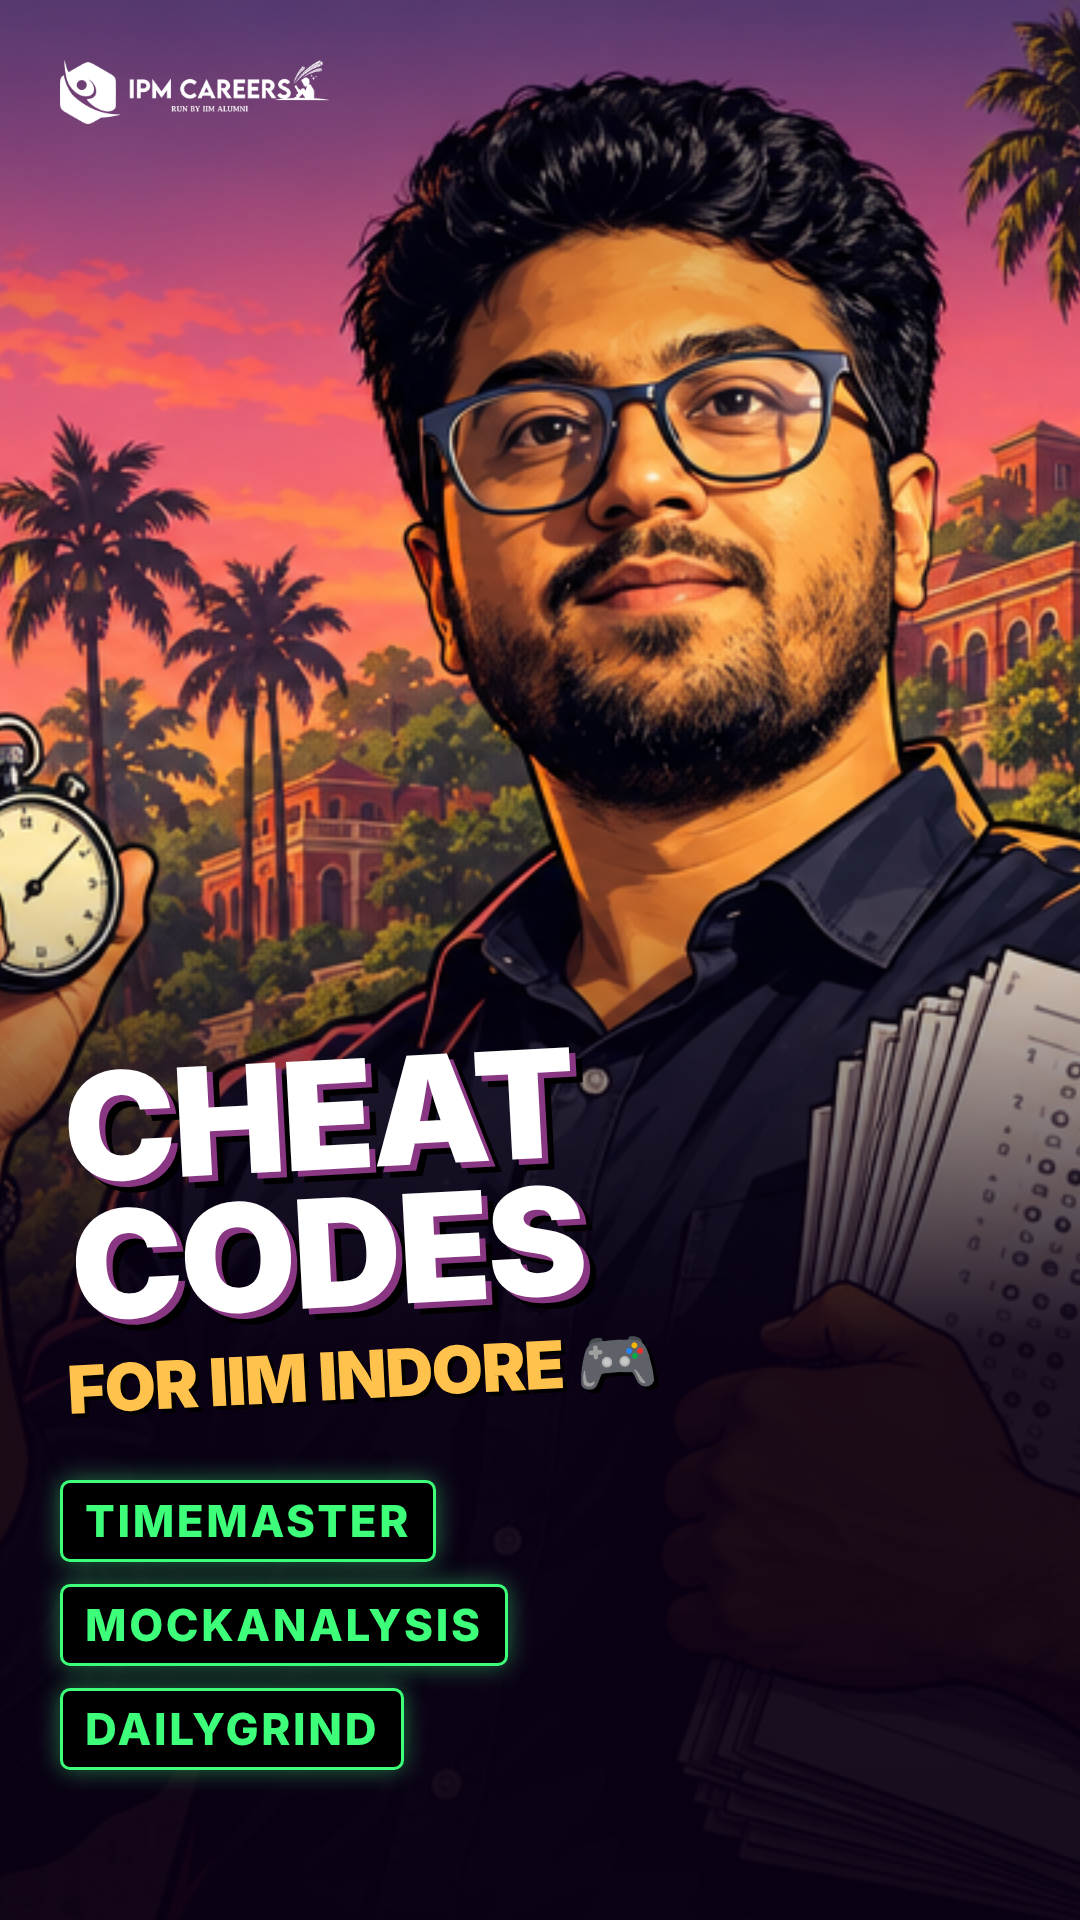
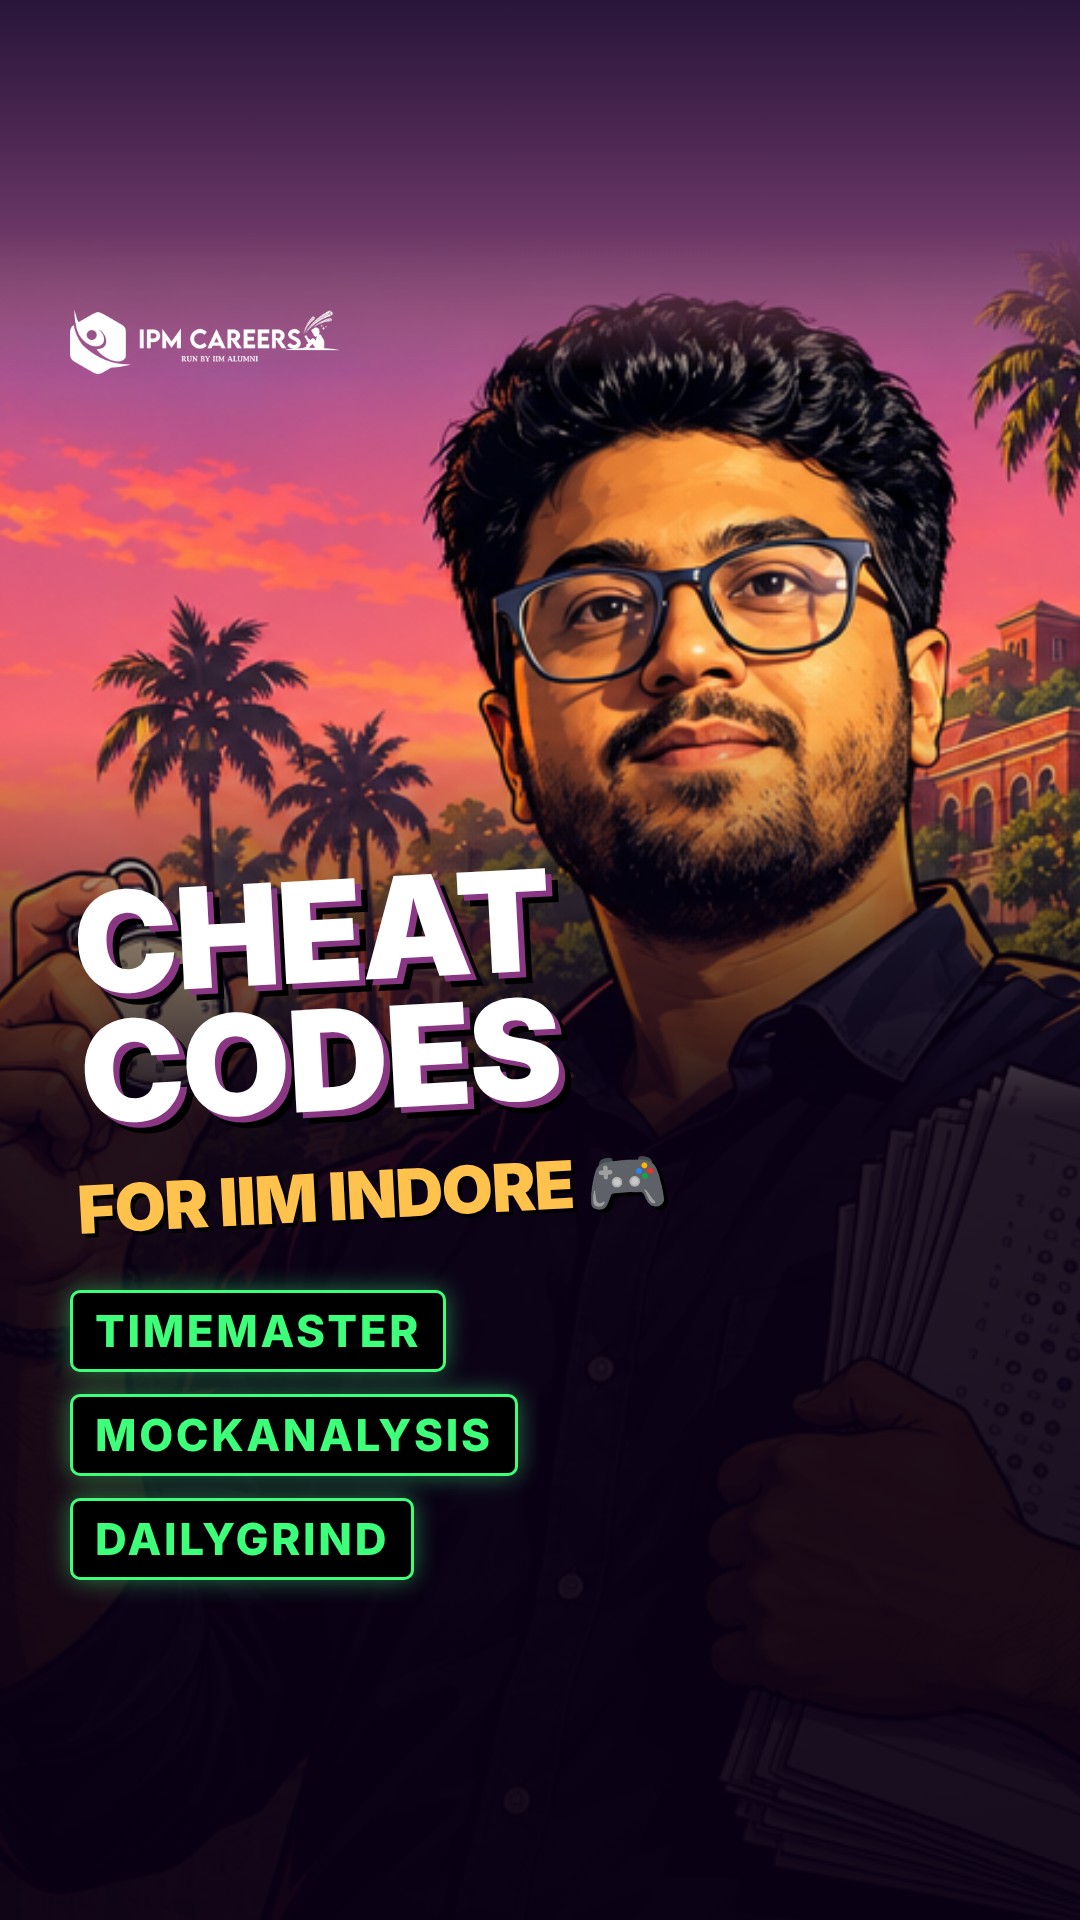
Cheat-codes vertical thumbnail: everything inside the middle 4:5 area so Shorts crops don't cut it
Claude-Session: https://claude.ai/code/session_017bG5V3fXiwQrWWNcUHjzq8

diff --git a/templates/cards/thumb-cheat.html b/templates/cards/thumb-cheat.html
@@ -1,5 +1,5 @@
 <!doctype html><html><head><meta charset="utf-8">
-<!-- YouTube thumbnail, game loading-screen style. ?img=&w=&h=&x=<crop 0-1> . Our own fonts/text, no game logos. -->
+<!-- Vertical: all text kept inside the middle 4:5 area (y 285 to 1635), because Shorts feeds crop the top and bottom. YouTube thumbnail, game loading-screen style. ?img=&w=&h=&x=<crop 0-1> . Our own fonts/text, no game logos. -->
 <style>
 @font-face { font-family: Inter; src: url(../../public/fonts/inter.woff2); font-weight: 100 900; }
 *{box-sizing:border-box;margin:0;padding:0}
@@ -14,12 +14,12 @@ html,body{overflow:hidden;background:#140818;font-family:Inter,"Noto Color Emoji
 const q=new URLSearchParams(location.search), W=+q.get("w"), H=+q.get("h"), V=H>W;
 document.documentElement.style.width=document.body.style.width=W+"px"; document.documentElement.style.height=document.body.style.height=H+"px";
 const s=V?1:0.72;
-document.body.innerHTML=`<div class="art" style="background-image:url(${q.get("img")});background-position:${(+q.get("x"))*100}% 50%"></div>
-<div class="shade" style="background:${V?"linear-gradient(rgba(10,0,20,.35) 0%,rgba(10,0,20,0) 20%,rgba(10,0,20,0) 45%,rgba(10,0,20,.92) 70%,rgba(10,0,20,.95) 100%)":"linear-gradient(90deg,rgba(10,0,20,.82) 0%,rgba(10,0,20,.35) 48%,rgba(10,0,20,0) 65%)"}"></div>
-<img class="logo" src="../../public/brand/logo-white.png" style="${V?"left:60px;top:60px;height:64px":"left:44px;top:34px;height:52px"}">
-<div class="t" style="${V?"left:60px;top:1060px":"left:44px;top:130px"};font-size:${V?150:120*s/0.72*0.8}px;text-shadow:${V?"6px 6px 0 #893783,12px 12px 0 #000":"5px 5px 0 #893783,9px 9px 0 #000"}">Cheat<br>codes</div>
-<div class="t" style="${V?"left:66px;top:1360px":"left:50px;top:355px"};font-size:${V?66:52}px;color:#FFC24D;text-shadow:4px 4px 0 #000">for IIM Indore 🎮</div>
-<div style="position:absolute;${V?"left:60px;right:60px;top:1480px":"left:44px;top:450px;width:560px"};display:flex;flex-direction:column;gap:${V?22:14}px">
+document.body.innerHTML=`${V?`<div class="art" style="background:linear-gradient(#3a2150 0%,#7a3f72 12%,#c96a6a 20%)"></div>`:""}<div class="art" style="${V?"top:230px;bottom:auto;height:1690px;-webkit-mask-image:linear-gradient(transparent 0,#000 140px);":""}background-image:url(${q.get("img")});background-position:${(+q.get("x"))*100}% 50%"></div>
+<div class="shade" style="background:${V?"linear-gradient(rgba(10,0,20,.35) 0%,rgba(10,0,20,0) 20%,rgba(10,0,20,0) 38%,rgba(10,0,20,.9) 58%,rgba(10,0,20,.95) 100%)":"linear-gradient(90deg,rgba(10,0,20,.82) 0%,rgba(10,0,20,.35) 48%,rgba(10,0,20,0) 65%)"}"></div>
+<img class="logo" src="../../public/brand/logo-white.png" style="${V?"left:70px;top:310px;height:64px":"left:44px;top:34px;height:52px"}">
+<div class="t" style="${V?"left:70px;top:880px":"left:44px;top:130px"};font-size:${V?140:120*s/0.72*0.8}px;text-shadow:${V?"6px 6px 0 #893783,12px 12px 0 #000":"5px 5px 0 #893783,9px 9px 0 #000"}">Cheat<br>codes</div>
+<div class="t" style="${V?"left:76px;top:1180px":"left:50px;top:355px"};font-size:${V?66:52}px;color:#FFC24D;text-shadow:4px 4px 0 #000">for IIM Indore 🎮</div>
+<div style="position:absolute;${V?"left:70px;right:70px;top:1290px":"left:44px;top:450px;width:560px"};display:flex;flex-direction:column;gap:${V?22:14}px">
 ${["TIMEMASTER","MOCKANALYSIS","DAILYGRIND"].map((c,i)=>`<div><span class="code" style="font-size:${V?44:30}px">${c}</span></div>`).join("")}
 </div>`;
 </script></body></html>
